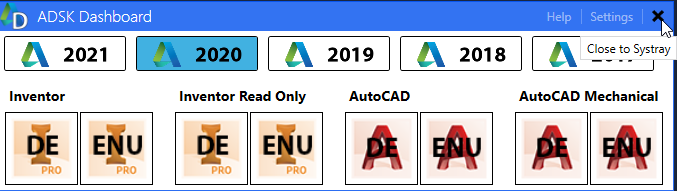
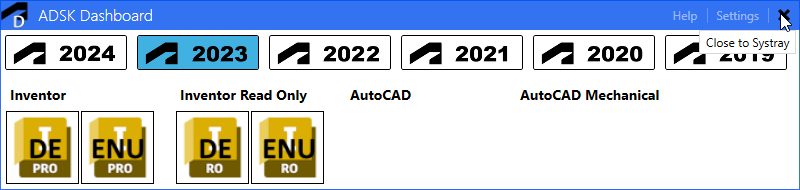
feat: updated all screenshots to reflect the ui changes

diff --git a/README.md b/README.md
@@ -51,38 +51,46 @@ Currently it works for AutoCAD / AutoCAD Mechanical / Inventor / Inventor Read O
 
 At startup it will check what is installed and depending on that it will display a Icon or not.
 
-![](/docs/adskd_interface1.png)
+![light1](/docs/adskd_interface1_light.png)
+
+![dark1](/docs/adskd_interface1_dark.png)
 
 So as a sample if click on 2020 there are alot more products displayed because there is also AutoCAD and AutoCAD Mechanical installed.
 
-![](/docs/adskd_interface2.png)
+![light2](/docs/adskd_interface2_light.png)
+
+![dark2](/docs/adskd_interface2_dark.png)
 
 # Settings
 
 At the moment there are only three settings. you can change to a dark mode and you can set the window to be always on top.
 Also you can decide if the window should be minimized after clicking on something to start.
 
-![](/docs/adskd_settings.png)
+![settings](/docs/adskd_settings.png)
 
 # Closing
 
 If you hover over the "X" in the top right corner, you can see that it tells you close to systray. It wont actualy close from there.
 
-![](/docs/adskd_closetosystray.png)
+![closetosystray](/docs/adskd_closetosystray.png)
 
 After that you can restart it from systray.
 
-![](/docs/adskd_systrayicon.png)
+![systrayicon](/docs/adskd_systrayicon.png)
+
+or close it.
+
+![exit](/docs/adskd_exit.png)
 
 # Tool doesn't start
 
 At the moment it is not signed so you probably get a windows defender message which you need to allow.
 
-![](/docs/adskd_smartscreen.png)
+![smartscreen](/docs/adskd_smartscreen.png)
 
 Also make sure that all dll files are not blocked. Open res\assembly folder and check by rightclicking on dll file.
 
-![](/docs/adskd_blocked.jpg)
+![blocked](/docs/adskd_blocked.jpg)
 
 # License
 
